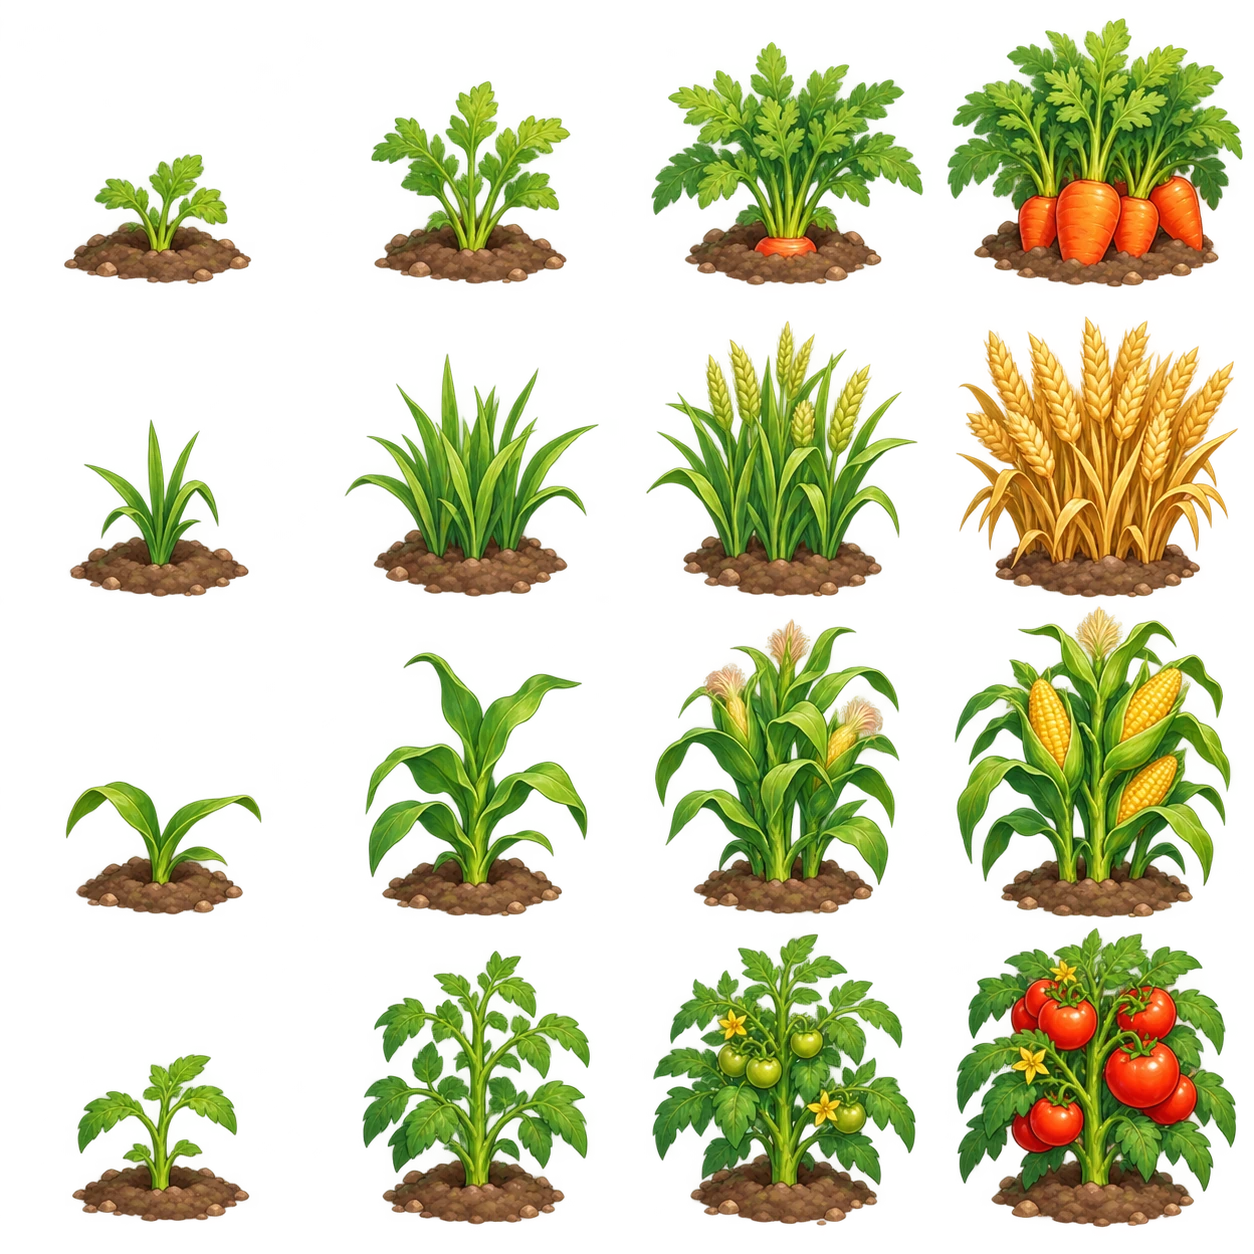
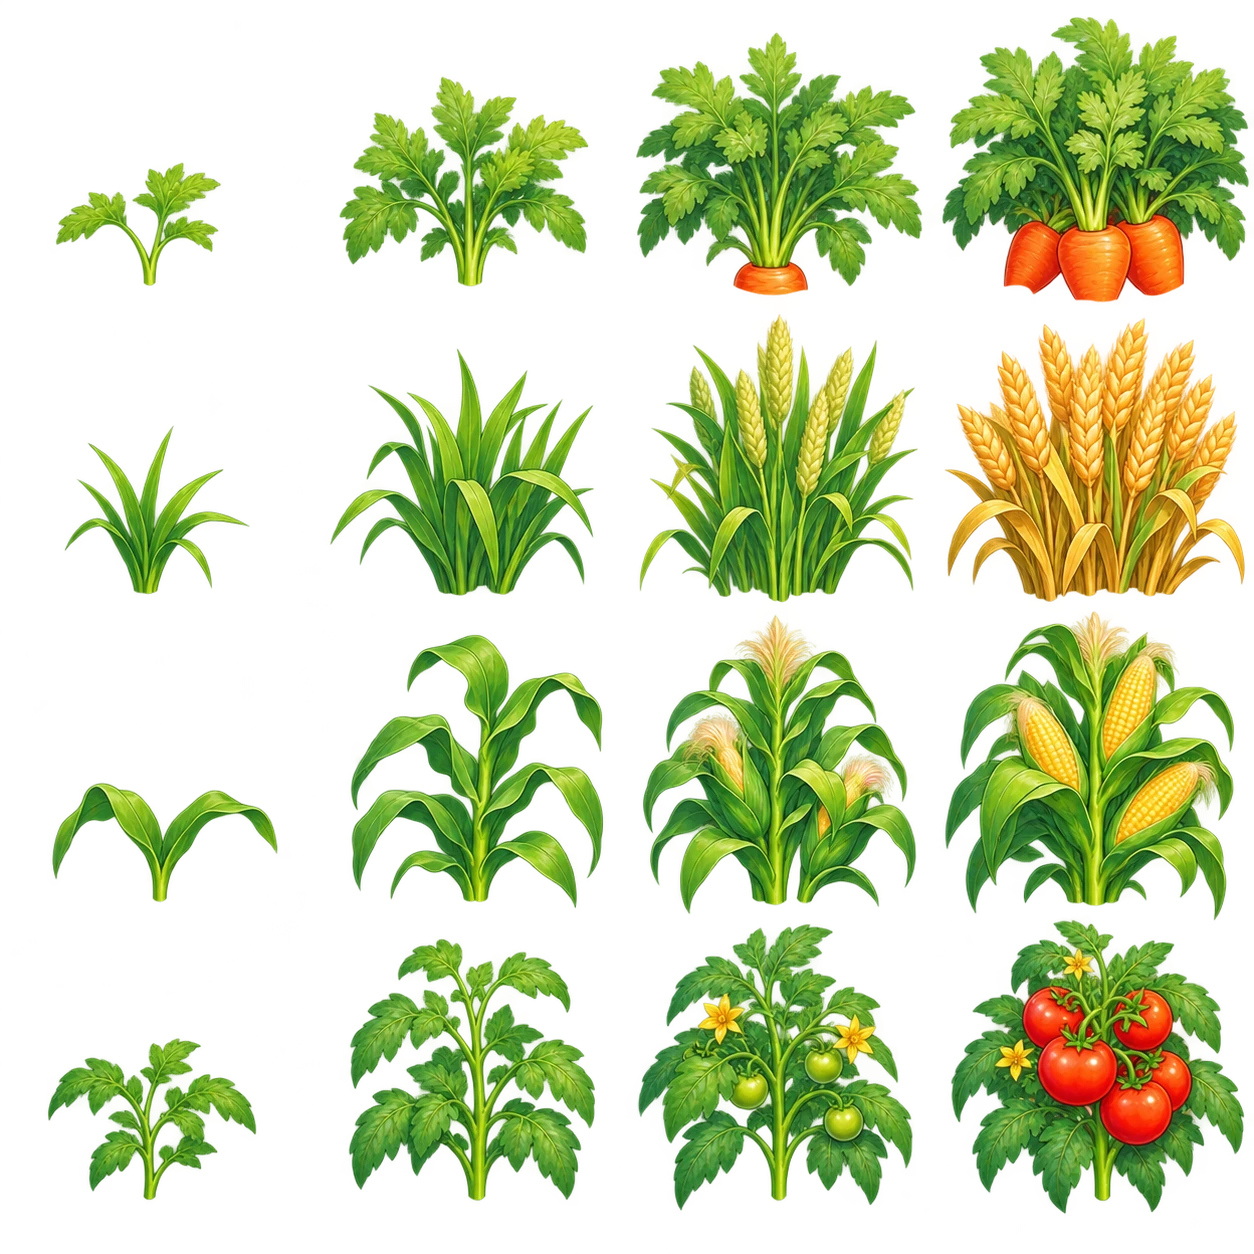
V13.16

diff --git a/js/farm.js b/js/farm.js
@@ -1,7 +1,7 @@
 (() => {
   'use strict';
 
-  const FARM_BUILD = '0.13.15';
+  const FARM_BUILD = '0.13.16';
   const STORAGE_KEY = 'xingchen-farm-v1';
   const VERSION = 1;
   const PLOT_COUNT = 20;
@@ -31,11 +31,19 @@
   };
   const PLANTABLES = [...CROPS, MYSTERY_CROP];
 
-  // V0.13.15 — crop growth sprite sheet. The first sheet is a 4×4 atlas:
-  // row 0 carrot, row 1 wheat, row 2 corn, row 3 tomato; columns are
-  // four visible growth stages. Keep the source as one image and move the
-  // background viewport, just like the Atlas/Sprite approach used in ROWEB.
-  const CROP_SPRITE_ROWS = Object.freeze({ carrot:0, wheat:1, corn:2, tomato:3 });
+  // V0.13.16 — ROWEB-style crop atlas metadata. The source stays as one
+  // transparent 4×4 sprite sheet; the browser only exposes the required cell.
+  // Rows select the crop, columns select the visible growth phase. Anchor/tune
+  // values keep each crop rooted to the same point on the farm plot.
+  const CROP_ATLAS = Object.freeze({
+    cols:4, rows:4, anchorX:50, anchorY:82,
+    crops:Object.freeze({
+      carrot:Object.freeze({row:0, scale:1.00, lift:0}),
+      wheat:Object.freeze({row:1, scale:.96, lift:1}),
+      corn:Object.freeze({row:2, scale:.90, lift:2}),
+      tomato:Object.freeze({row:3, scale:.94, lift:1})
+    })
+  });
 
   const MYSTERY_POOL = [
     {id:'carrot', weight:26}, {id:'wheat', weight:22}, {id:'corn', weight:18},
@@ -1175,17 +1183,23 @@
   }
 
   function cropSpritePosition(cropId, progress) {
-    const row = CROP_SPRITE_ROWS[cropId];
-    if (!Number.isInteger(row)) return null;
+    const meta = CROP_ATLAS.crops[cropId];
+    if (!meta) return null;
     const col = cropSpriteStage(progress);
-    const step = 100 / 3;
-    return { row, col, x:col * step, y:row * step };
+    const xStep = 100 / (CROP_ATLAS.cols - 1);
+    const yStep = 100 / (CROP_ATLAS.rows - 1);
+    return {
+      row:meta.row, col,
+      x:col * xStep, y:meta.row * yStep,
+      scale:meta.scale, lift:meta.lift,
+      anchorX:CROP_ATLAS.anchorX, anchorY:CROP_ATLAS.anchorY
+    };
   }
 
   function cropVisualMarkup(shown, progress) {
     const sprite = cropSpritePosition(shown?.id, progress);
     if (sprite) {
-      return `<span class="farm-crop-visual is-sprite" aria-hidden="true" data-crop-sprite="${escapeHtml(shown.id)}" style="--crop-x:${sprite.x}%;--crop-y:${sprite.y}%"></span>`;
+      return `<span class="farm-crop-visual is-sprite" aria-hidden="true" data-crop-sprite="${escapeHtml(shown.id)}" style="--crop-x:${sprite.x}%;--crop-y:${sprite.y}%;--crop-scale:${sprite.scale};--crop-lift:${sprite.lift}px;--crop-anchor-x:${sprite.anchorX}%;--crop-anchor-y:${sprite.anchorY}%"></span>`;
     }
     return `<span class="farm-crop-visual" aria-hidden="true">${escapeHtml(shown?.icon || '🌱')}</span>`;
   }
@@ -1199,12 +1213,20 @@
       el.textContent = '';
       el.style.setProperty('--crop-x', `${sprite.x}%`);
       el.style.setProperty('--crop-y', `${sprite.y}%`);
+      el.style.setProperty('--crop-scale', String(sprite.scale));
+      el.style.setProperty('--crop-lift', `${sprite.lift}px`);
+      el.style.setProperty('--crop-anchor-x', `${sprite.anchorX}%`);
+      el.style.setProperty('--crop-anchor-y', `${sprite.anchorY}%`);
       return;
     }
     el.classList.remove('is-sprite');
     delete el.dataset.cropSprite;
     el.style.removeProperty('--crop-x');
     el.style.removeProperty('--crop-y');
+    el.style.removeProperty('--crop-scale');
+    el.style.removeProperty('--crop-lift');
+    el.style.removeProperty('--crop-anchor-x');
+    el.style.removeProperty('--crop-anchor-y');
     el.textContent = shown?.icon || '🌱';
   }
 

diff --git a/css/style.css b/css/style.css
@@ -9912,12 +9912,13 @@ body.farm-modal-open { overflow: hidden; }
   width:64px;
   height:64px;
   margin:-10px 0 -8px;
-  background-image:url("../images/farm/crops-sheet-01.webp");
+  background-image:url("../images/farm/crops-sheet-01.webp?v=0.13.16");
   background-repeat:no-repeat;
   background-size:400% 400%;
   background-position:var(--crop-x,0%) var(--crop-y,0%);
   filter:drop-shadow(0 4px 4px rgba(39,32,20,.2));
-  transform-origin:50% 82%;
+  transform-origin:var(--crop-anchor-x,50%) var(--crop-anchor-y,82%);
+  transform:translateY(calc(-1 * var(--crop-lift,0px))) scale(var(--crop-scale,1));
 }
 /* Growth size is already painted into the atlas frames; do not scale sprite
    stages again or the root anchor will visibly jump between phases. */
@@ -9925,7 +9926,7 @@ body.farm-modal-open { overflow: hidden; }
 .stage-sprout .farm-crop-visual.is-sprite,
 .stage-growing .farm-crop-visual.is-sprite,
 .stage-almost .farm-crop-visual.is-sprite {
-  transform:none;
+  transform:translateY(calc(-1 * var(--crop-lift,0px))) scale(var(--crop-scale,1));
   opacity:1;
 }
 .stage-seed .farm-crop-visual { transform:scale(.55); opacity:.58; }
@@ -9933,6 +9934,7 @@ body.farm-modal-open { overflow: hidden; }
 .stage-growing .farm-crop-visual { transform:scale(.86); }
 .stage-almost .farm-crop-visual { transform:scale(.96); }
 .is-mature .farm-crop-visual { animation:farm-crop-ready 1.8s ease-in-out infinite; }
+.is-mature .farm-crop-visual.is-sprite { animation:farm-crop-ready-sprite 1.8s ease-in-out infinite; }
 .farm-crop-name { font-size:.57rem; font-weight:700; color:#fff1c8; }
 .farm-crop-time {
   order:-2;
@@ -11021,4 +11023,11 @@ body.farm-modal-open { overflow: hidden; }
 }
 
 
-/* V0.13.15 — 4x4 crop growth sprite sheet (carrot / wheat / corn / tomato) */
+/* V0.13.16 — 4x4 crop growth sprite sheet (carrot / wheat / corn / tomato) */
+
+/* V0.13.16 — atlas-anchor crop animation: keep the root fixed while the plant breathes. */
+@keyframes farm-crop-ready-sprite {
+  0%,100% { transform:translateY(calc(-1 * var(--crop-lift,0px))) scale(var(--crop-scale,1)); }
+  45% { transform:translateY(calc(-4px - var(--crop-lift,0px))) scale(calc(var(--crop-scale,1) * 1.035)); }
+  70% { transform:translateY(calc(-1px - var(--crop-lift,0px))) scale(calc(var(--crop-scale,1) * .995)); }
+}

diff --git a/pages/farm.html b/pages/farm.html
@@ -9,9 +9,9 @@
   <meta http-equiv="Expires" content="0" />
   <meta name="description" content="星辰农场：种植、收成、升级、解锁农地与作物，逐步经营属于你的温暖小农场。" />
   <title>星辰农场 | 星辰日记</title>
-  <link rel="stylesheet" href="../css/style.css?v=0.13.15" />
+  <link rel="stylesheet" href="../css/style.css?v=0.13.16" />
 </head>
-<body class="farm-page-body" id="pageTop" data-farm-build="0.13.15">
+<body class="farm-page-body" id="pageTop" data-farm-build="0.13.16">
   <div class="site-shell farm-shell">
     <header class="subpage-header farm-subpage-header">
       <a class="brand" href="../index.html">
@@ -115,13 +115,13 @@
   <div class="farm-toast-region" id="farmToastRegion" aria-live="polite" aria-atomic="true"></div>
 
   <script src="https://cdn.jsdelivr.net/npm/@supabase/supabase-js@2"></script>
-  <script src="../js/supabase-public-config.js?v=0.13.15"></script>
-  <script src="../js/supabase-config.js?v=0.13.15"></script>
-  <script src="../js/supabase-client.js?v=0.13.15"></script>
-  <script src="../js/supabase-auth.js?v=0.13.15"></script>
-  <script src="../js/cloud-sync.js?v=0.13.15"></script>
-  <script src="../js/player-profile.js?v=0.13.15"></script>
-  <script src="../js/farm.js?v=0.13.15"></script>
-  <script src="../js/shooting-stars.js?v=0.13.15"></script>
+  <script src="../js/supabase-public-config.js?v=0.13.16"></script>
+  <script src="../js/supabase-config.js?v=0.13.16"></script>
+  <script src="../js/supabase-client.js?v=0.13.16"></script>
+  <script src="../js/supabase-auth.js?v=0.13.16"></script>
+  <script src="../js/cloud-sync.js?v=0.13.16"></script>
+  <script src="../js/player-profile.js?v=0.13.16"></script>
+  <script src="../js/farm.js?v=0.13.16"></script>
+  <script src="../js/shooting-stars.js?v=0.13.16"></script>
 </body>
 </html>

diff --git a/index.html b/index.html
@@ -92,7 +92,7 @@
           <h2 data-i18n="farmTitle">星辰农场</h2>
           <p class="panel-en">STELLAR FARM</p>
           <p class="panel-desc" data-i18n="farmDesc">在属于你的星光农场里，种下每一份小小的期待。</p>
-          <a class="primary-btn" href="pages/farm.html?v=0.13.15">
+          <a class="primary-btn" href="pages/farm.html?v=0.13.16">
             <span data-i18n="farmButton">进入农场</span><span class="btn-arrow" aria-hidden="true">→</span>
           </a>
         </div>

diff --git a/README.md b/README.md
@@ -1,6 +1,6 @@
-# 星辰日记 V0.13.15
+# 星辰日记 V0.13.16
 
-## V0.13.15 — 作物 Sprite Sheet 成长素材（第一批）
+## V0.13.16 — 作物 Sprite Sheet 成长素材（第一批）
 
 - 红萝卜、小麦、玉米、番茄改用同一张 4×4 Sprite Sheet，不拆成 16 个文件。
 - 每种作物依真实成长进度在 30% / 60% / 90% 切换四个视觉阶段。
@@ -140,3 +140,10 @@ V0.13.6 不需要执行新的 SQL。既有 003～006 migration 保持不变。
 - 手机背景使用独立构图，不再把桌面横图强制裁切。
 - 好友拜访农场在手机端也同步使用直式背景。
 - 本版仅更换响应式美术与缓存版本号，不需要新增 Supabase SQL。
+
+### V0.13.16 — 无土作物 Atlas / Anchor 测试
+- 第一张作物 Sprite Sheet 更换为无土版本，仍保持单一 4×4 大图，不拆成 16 张图片。
+- 读取方式沿用 ROWEB 的 Atlas 思路：作物类型决定 row，成长阶段决定 column。
+- 新增统一根部 Anchor，并为红萝卜 / 小麦 / 玉米 / 番茄加入独立 scale / lift 微调参数。
+- 成熟动画只移动植物视觉，不改变农田命中区；根部尽量保持固定，避免成长阶段切换时跳位。
+- 不需要新的 Supabase SQL。
